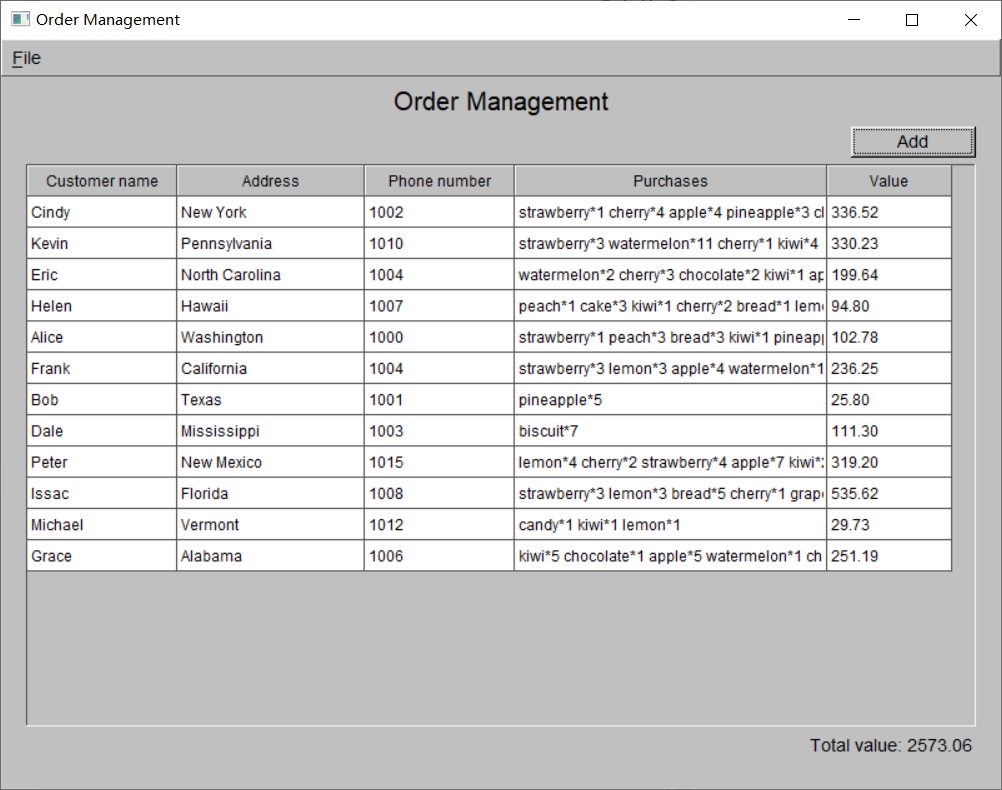
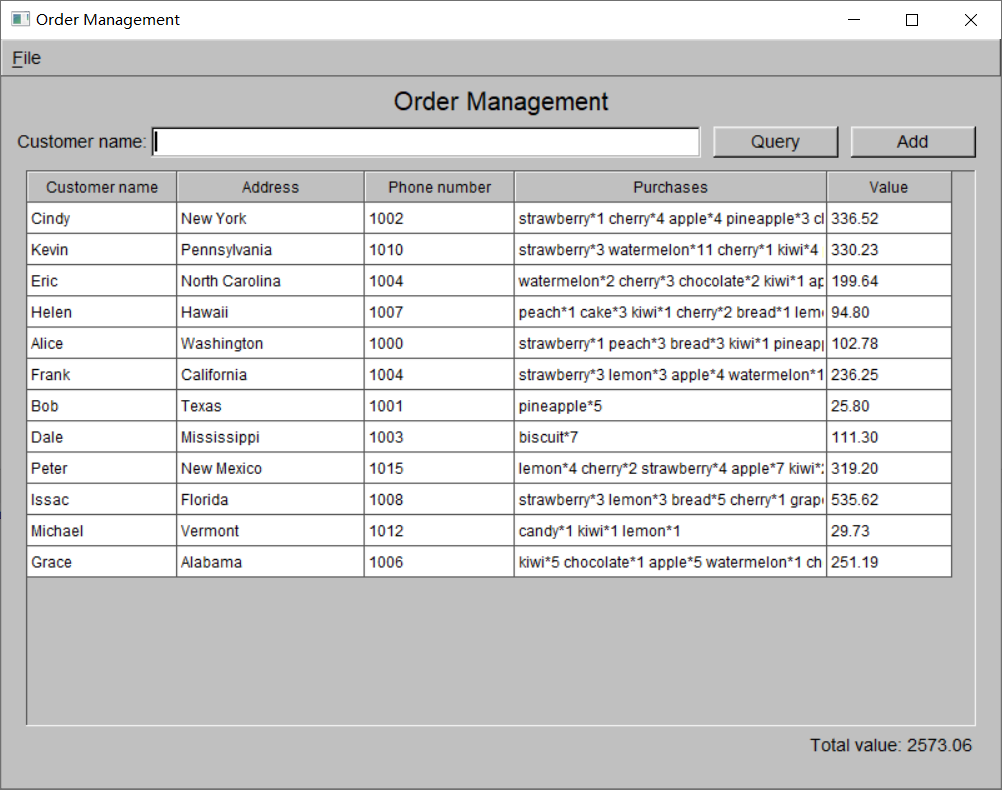
习题21-11增加查询功能

Changed region(s): [[0.0, 0.1519, 0.9591, 0.7291], [0.99, 0.9722, 1.0, 1.0]]

diff --git a/ch21/order_list_window.cpp b/ch21/order_list_window.cpp
@@ -11,6 +11,8 @@
 #include <FL/Fl_Menu_Bar.H>
 #include <FL/Fl_Menu_Item.H>
 
+#include "order.h"
+
 static Fl_Menu_Item MENU_ITEMS[] = {
     {"&File", 0, 0, 0, FL_SUBMENU},
     {"&Open File...", FL_COMMAND + 'o', [](Fl_Widget*, void* w) { static_cast<Order_list_window*>(w)->load_file(); }},
@@ -29,45 +31,37 @@ Order_list_window::Order_list_window(int w, int h, const char* title) :Fl_Window
     Fl_Box* header = new Fl_Box(0, 30, w, 40, "Order Management");
     header->labelsize(20);
 
+    customer_name_input_ = new Fl_Input(120, 70, w - 360, 25, "Customer name:");
+
+    Fl_Button* query_button = new Fl_Button(w - 230, 70, 100, 25, "Query");
+    query_button->callback(
+            [](Fl_Widget*, void* w) { static_cast<Order_list_window*>(w)->query_by_customer_name(); }, this);
+
     Fl_Button* add_button = new Fl_Button(w - 120, 70, 100, 25, "Add");
 
     total_value_ = new Fl_Box(20, h - 50, w - 40, 30, "Total value: 0.00");
     total_value_->align(FL_ALIGN_RIGHT | FL_ALIGN_INSIDE);
 
     // initialize table at last to avoid changing Fl_Group::current()
-    order_table_ = new Order_list_table(20, 100, w - 40, h - 150, orders_);
-    order_table_->callback([](Fl_Widget* t, void* w) {
+    order_table_ = new Order_list_table(20, 105, w - 40, h - 155);
+    order_table_->callback([](Fl_Widget* t, void*) {
         Order_list_table* table = dynamic_cast<Order_list_table*>(t);
         if (table->callback_context() == Fl_Table::CONTEXT_CELL)
-            static_cast<Order_list_window*>(w)->edit_order(table->callback_row());
-    }, this);
-    add_button->callback([](Fl_Widget*, void* w) { static_cast<Order_list_window*>(w)->add_order(); }, this);
+            table->edit_order();
+    });
+    add_button->callback([](Fl_Widget*, void* t) { static_cast<Order_list_table*>(t)->add_order(); }, order_table_);
 
     resizable(order_table_);
     end();
-
-    // create sub-window after end()
-    edit_window_ = new Order_edit_window(600, 600, "Edit order");
-    edit_window_->ok_callback([](Fl_Widget*, void* w) { static_cast<Order_list_window*>(w)->update_order(); }, this);
-    edit_window_->set_modal();
 }
 
-Order_list_window::~Order_list_window() {
-    delete edit_window_;
-}
-
-void Order_list_window::load_file() {
+void Order_list_window::load_file() const {
     if (const char* filename = fl_file_chooser("Choose order data file", "Text Files (*.txt)", "")) {
         try {
             std::ifstream ifs(filename);
             std::istream_iterator<Order> iit(ifs), eos;
-            orders_.assign(iit, eos);
+            order_table_->orders().assign(iit, eos);
             order_table_->update_content();
-
-            std::ostringstream oss;
-            oss << "Total value: " << std::fixed << std::setprecision(2)
-                    << get_total_value(orders_.begin(), orders_.end());
-            total_value_->copy_label(oss.str().c_str());
         }
         catch (std::runtime_error& e) {
             fl_alert("Format error");
@@ -75,27 +69,24 @@ void Order_list_window::load_file() {
     }
 }
 
-void Order_list_window::add_order() {
-    orders_.emplace_back();
-    edit_order(orders_.size() - 1);
-}
-
-void Order_list_window::edit_order(int i) {
-    edit_window_->set_order(orders_[i]);
-    edit_window_->set_index(i);
-    edit_window_->show();
-}
-
-void Order_list_window::update_order() {
-    edit_window_->hide();
-    orders_[edit_window_->index()] = edit_window_->get_order();
-    order_table_->update_content();
-}
-
-void Order_list_window::save_file() {
+void Order_list_window::save_file() const {
     if (const char* filename = fl_file_chooser("Choose file to save", "Text Files (*.txt)", "")) {
         std::ofstream ofs(filename);
         std::ostream_iterator<Order> oit(ofs, "\n");
-        std::copy(orders_.begin(), orders_.end(), oit);
+        auto orders = order_table_->orders();
+        std::copy(orders.begin(), orders.end(), oit);
     }
+}
+
+void Order_list_window::query_by_customer_name() const {
+    order_table_->filter_by_customer_name(customer_name_input_->value());
+}
+
+// automatically called by Order_list_table::update_content()
+void Order_list_window::update_total_value() const {
+    std::ostringstream oss;
+    auto orders = order_table_->filtered_orders();
+    oss << "Total value: " << std::fixed << std::setprecision(2)
+            << get_total_value(orders.begin(), orders.end());
+    total_value_->copy_label(oss.str().c_str());
 }

diff --git a/ch21/order_list_table.cpp b/ch21/order_list_table.cpp
@@ -5,15 +5,64 @@
 
 #include <FL/fl_draw.H>
 
+#include "order_list_window.h"
+
 const std::vector<std::string> Order_list_table::COLUMN_NAMES = {"Customer name", "Address", "Phone number", "Purchases", "Value"};
 const std::vector<int> Order_list_table::COLUMN_WIDTH = {120, 150, 120, 250, 100};
 
-Order_list_table::Order_list_table(int x, int y, int w, int h, std::vector<Order>& orders)
-        :Fl_Table(x, y, w, h), orders_(orders) {
+Order_list_table::Order_list_table(int x, int y, int w, int h) :Fl_Table(x, y, w, h) {
+    end();
+
+    // create sub-window after end()
+    edit_window_ = std::make_unique<Order_edit_window>(600, 600, "Edit order");
+    edit_window_->ok_callback([](Fl_Widget*, void* w) { static_cast<Order_list_table*>(w)->update_order(); }, this);
+    edit_window_->set_modal();
+
+    set_table_size();
+}
+
+void Order_list_table::add_order() {
+    edit_window_->set_order(Order());
+    edit_window_->set_index(-1);
+    edit_window_->show();
+}
+
+void Order_list_table::edit_order() {
+    edit_window_->set_order(filtered_orders_[callback_row()]);
+    edit_window_->set_index(callback_row());
+    edit_window_->show();
+}
+
+void Order_list_table::filter_by_customer_name(const std::string& name) {
+    if (name.empty())
+        filter_ = nullptr;
+    else
+        filter_ = [&name](const Order& o) { return o.customer_name.find(name) != std::string::npos; };
+    update_content();
+}
+
+// callback for Order_edit_window
+void Order_list_table::update_order() {
+    edit_window_->hide();
+    if (edit_window_->index() == -1)  // add
+        orders_.push_back(edit_window_->order());
+    else  // edit
+        orders_[edit_window_->index()] = edit_window_->order();
     update_content();
 }
 
 void Order_list_table::update_content() {
+    filtered_orders_.clear();
+    for (Order& o : orders_)
+        if (!filter_ || filter_(o))
+            filtered_orders_.push_back(std::ref(o));
+
+    set_table_size();
+    redraw();
+    dynamic_cast<Order_list_window*>(parent())->update_total_value();
+}
+
+void Order_list_table::set_table_size() {
     cols(COLUMN_NAMES.size());
     col_header(1);
     col_resize(0);
@@ -21,12 +70,10 @@ void Order_list_table::update_content() {
     for (int c = 0; c < cols(); ++c)
         col_width(c, COLUMN_WIDTH[c]);
 
-    rows(orders_.size());
+    rows(filtered_orders_.size());
     row_header(0);
     row_resize(0);
     row_height_all(25);
-
-    redraw();
 }
 
 void Order_list_table::draw_cell(TableContext context, int R, int C, int X, int Y, int W, int H) {
@@ -45,7 +92,7 @@ void Order_list_table::draw_cell(TableContext context, int R, int C, int X, int 
             fl_draw_box(FL_THIN_UP_BOX, X, Y, W, H, FL_WHITE);
             fl_push_clip(X + 3, Y + 3, W - 6, H - 6);
             fl_color(FL_BLACK);
-            fl_draw(get_column_text(orders_[R], C).c_str(), X + 3, Y + 3, W - 6, H - 6, FL_ALIGN_LEFT);
+            fl_draw(get_column_text(filtered_orders_[R], C).c_str(), X + 3, Y + 3, W - 6, H - 6, FL_ALIGN_LEFT);
             fl_pop_clip();
             break;
         }

diff --git a/ch21/order_list_table.h b/ch21/order_list_table.h
@@ -1,27 +1,45 @@
 #pragma once
 
+#include <functional>
+#include <memory>
 #include <string>
 #include <vector>
 
 #include <FL/Fl_Table.H>
 
 #include "order.h"
+#include "order_edit_window.h"
 
-// A table of orders.
+// A table of orders, supports editing and filtering.
 class Order_list_table : public Fl_Table {
 public:
-    Order_list_table(int x, int y, int w, int h, std::vector<Order>& orders);
+    Order_list_table(int x, int y, int w, int h);
 
+    std::vector<Order>& orders() { return orders_; }
+    std::vector<std::reference_wrapper<Order>>& filtered_orders() { return filtered_orders_; }
+
+    void add_order();
+    void edit_order();
+    void filter_by_customer_name(const std::string& name);
     void update_content();
 
 protected:
     void draw_cell(TableContext context, int R, int C, int X, int Y, int W, int H) override;
 
 private:
+    void set_table_size();
+    void update_order();
+
     static const std::vector<std::string> COLUMN_NAMES;
     static const std::vector<int> COLUMN_WIDTH;
 
-    std::vector<Order>& orders_;
+    // widgets
+    std::unique_ptr<Order_edit_window> edit_window_;
+
+    // data
+    std::vector<Order> orders_;  // original order data
+    std::vector<std::reference_wrapper<Order>> filtered_orders_;  // filtered order data (for displaying)
+    std::function<bool(const Order&)> filter_;
 };
 
 std::string get_column_text(const Order& o, int c);

diff --git a/ch21/order_list_window.h b/ch21/order_list_window.h
@@ -1,33 +1,24 @@
 #pragma once
 
-#include <vector>
-
 #include <FL/Fl_Box.H>
+#include <FL/Fl_Input.H>
 #include <FL/Fl_Window.H>
 
-#include "order.h"
-#include "order_edit_window.h"
 #include "order_list_table.h"
 
 // A window to display and edit a list of orders, and save and load to/from a file.
 class Order_list_window : public Fl_Window {
 public:
     Order_list_window(int w, int h, const char* title = nullptr);
-    ~Order_list_window() override;
 
-    void load_file();
-    void save_file();
+    void load_file() const;
+    void save_file() const;
 
-private:
-    void add_order();
-    void edit_order(int i);
-    void update_order();
+    void query_by_customer_name() const;
+    void update_total_value() const;
 
     // widgets
+    Fl_Input* customer_name_input_;
     Order_list_table* order_table_;
     Fl_Box* total_value_;
-    Order_edit_window* edit_window_;
-
-    // data
-    std::vector<Order> orders_;
 };

diff --git a/ch21/purchase_list_table.cpp b/ch21/purchase_list_table.cpp
@@ -18,7 +18,12 @@ Purchase_list_table::Purchase_list_table(int x, int y, int w, int h, std::vector
 
 void Purchase_list_table::update_content() {
     clear();
+    set_table_size();
+    create_widgets();
+    redraw();
+}
 
+void Purchase_list_table::set_table_size() {
     cols(COLUMN_NAMES.size());
     col_header(1);
     col_resize(0);
@@ -30,7 +35,9 @@ void Purchase_list_table::update_content() {
     row_header(0);
     row_resize(0);
     row_height_all(25);
+}
 
+void Purchase_list_table::create_widgets() {
     begin();
     for (int r = 0; r < rows(); ++r) {
         Purchase& p = purchases_[r];
@@ -70,7 +77,6 @@ void Purchase_list_table::update_content() {
         }
     }
     end();
-    redraw();
 }
 
 void Purchase_list_table::draw_cell(Fl_Table::TableContext context, int R, int C, int X, int Y, int W, int H) {

diff --git a/ch21/order_edit_window.h b/ch21/order_edit_window.h
@@ -17,7 +17,7 @@ public:
     void update_address() { order_.address = address_input_->value(); }
     void update_phone_number() { order_.phone_number = phone_number_input_->value(); }
 
-    const Order& get_order() const { return order_; }
+    const Order& order() const { return order_; }
     void set_order(const Order& o) { order_ = o; fill_order_info(); }
 
     int index() const { return index_; }
@@ -36,5 +36,5 @@ private:
 
     // data
     Order order_;
-    int index_;
+    int index_;  // used by Order_list_table::update_order(), -1 for adding, >= 0 for editing
 };

diff --git a/ch21/purchase_list_table.h b/ch21/purchase_list_table.h
@@ -18,6 +18,9 @@ protected:
     void draw_cell(TableContext context, int R, int C, int X, int Y, int W, int H) override;
 
 private:
+    void set_table_size();
+    void create_widgets();
+
     static const std::vector<std::string> COLUMN_NAMES;
     static const std::vector<int> COLUMN_WIDTH;
 
